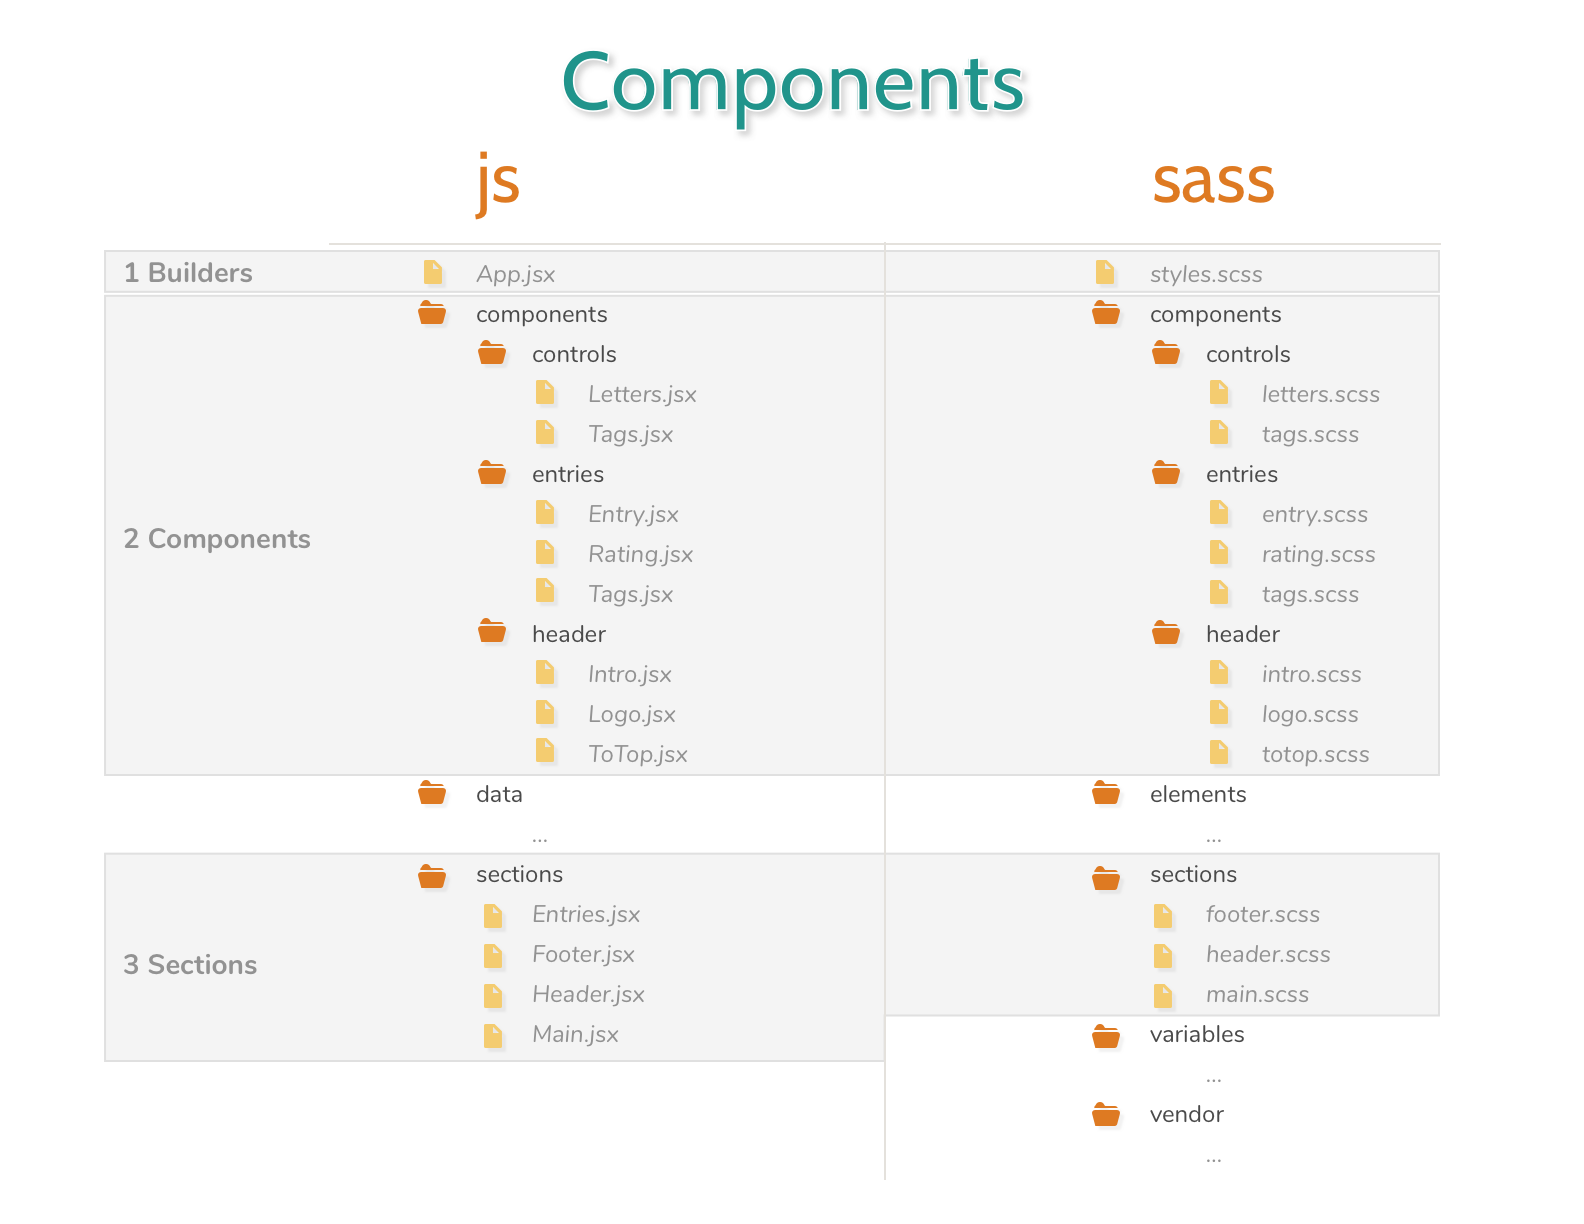
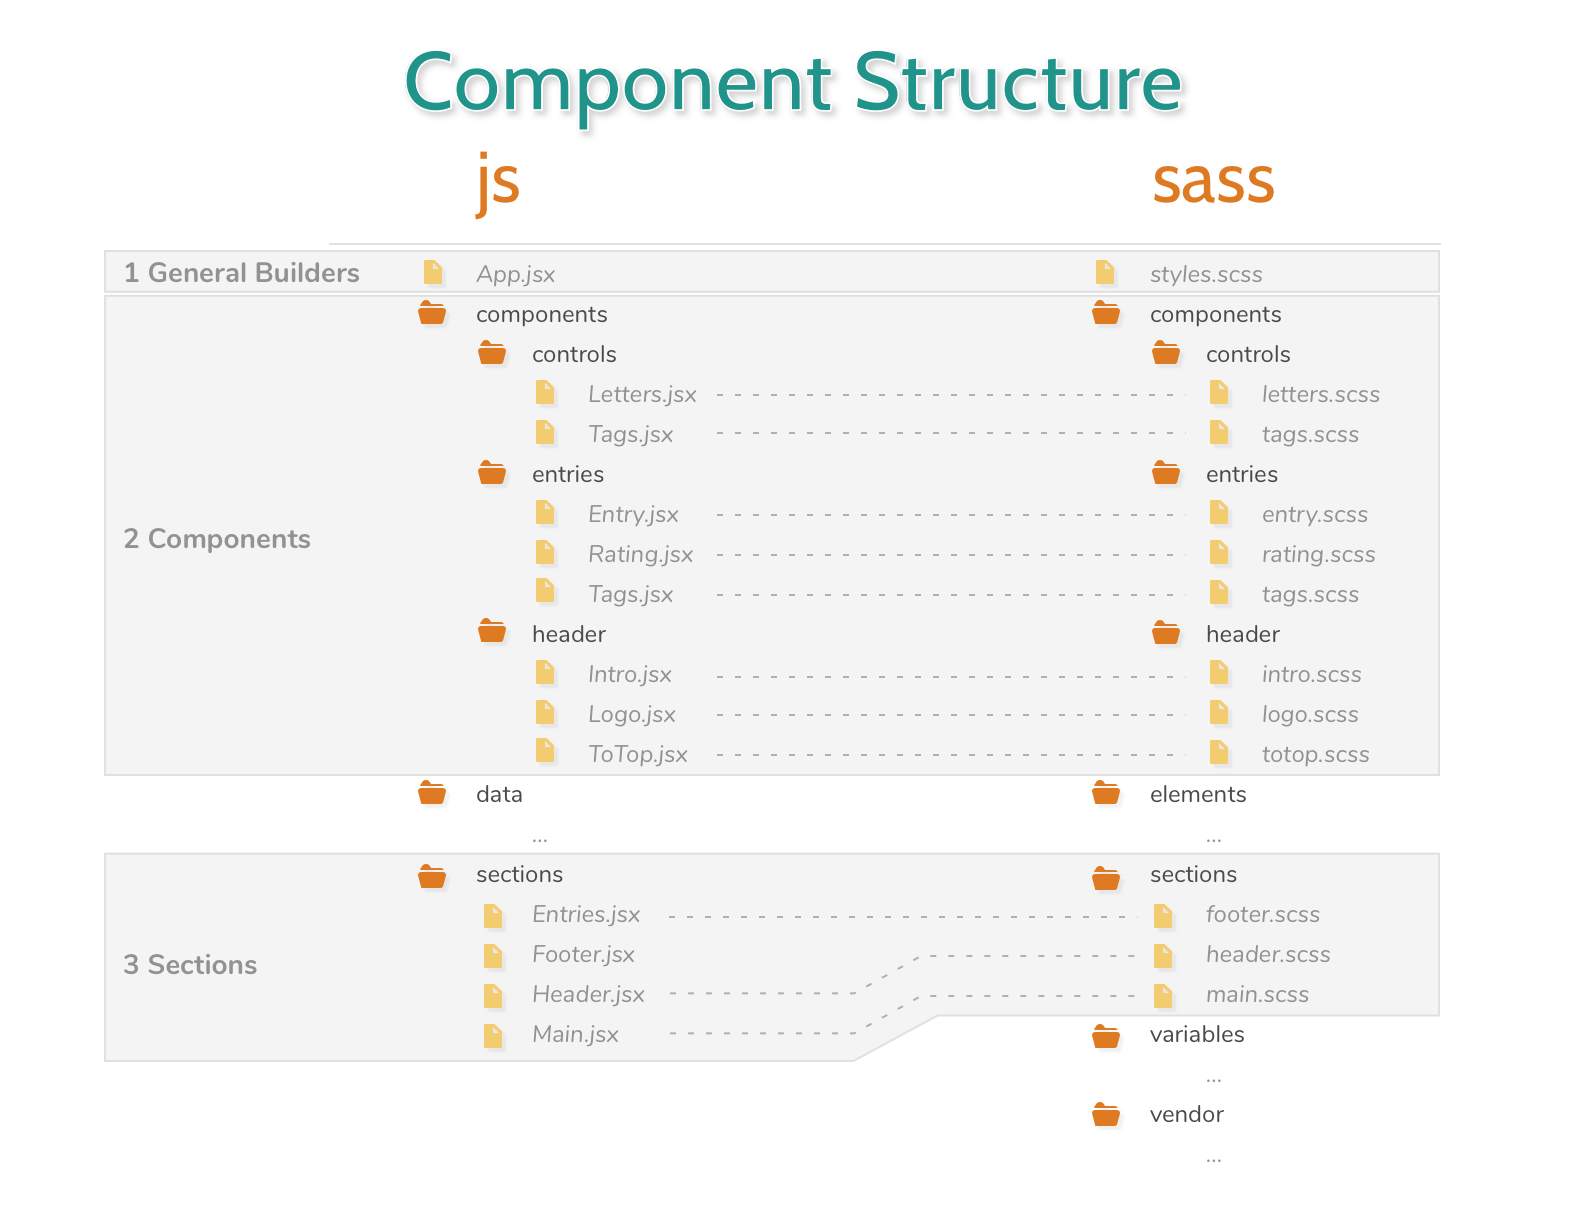
Readme overhaul

Changed region(s): [[0.2475, 0.031, 0.7424, 0.1242], [0.0928, 0.2173, 0.2165, 0.2484]]

diff --git a/README.md b/README.md
@@ -8,8 +8,7 @@
 
 * [Setup](#setup)
   * [Install dependencies](#install-dependencies)
-* [Precompilation](#precompilation)
-  * [Gulp](#gulp)
+* [Development](#development)
   * [JavaScript](#javascript)
   * [Sass](#sass)
 * [Structure](#structure)
@@ -28,38 +27,37 @@ NPM works, but I've moved to Yarn for package dependencies. If you haven't alrea
 
 Then it's as simple as: `yarn install` (package and lockfile already exist)
 
+## Development
 
-## Precompilation
-
-### Gulp
-
-- Local
-- NPM scripts
-- Tasks
+The absolute basic: `yarn start`
 
 ### JavaScript
 
-- React
-- Babel
-- Browserify for the build
+This is a [React](https://facebook.github.io/react/) project, so obviously JS heavy. It has [babel](http://babeljs.io/), notably with `"presets": ["es2015", "react", "stage-2"]`.
+
+The (dev) build itself is using [Webpack](https://webpack.js.org/). The local dev uses a combination of [Browsersync](https://www.browsersync.io/) and webpack dev middlewhare. Since it runs in middlewhere there is no "compilation" to a public folder, it's created in memory. This also has a layer of "hot reloading" so that during dev the whole page doesn't need refreshing, saving a `.jsx` file will just reload affected components.
+
+All of that said, it should **just work**, but the files to pay most attention to in relation, more or less in this order:
+
+- `package.json`
+- `webpack.config.js`
+- `.babelrc`
+- `app.js`
+
 
 #### JS Linting
 
-- `TODO`
-- ES-lint
+[Eslint](http://eslint.org/) is integrated into the dev build (as well as being independently triggered.) The rules are part of the configuration file found at `.eslintrc.json`. However, it's notable just `"extends": ["eslint:recommended", "plugin:react/recommended"]`
+
+If you want to use the linting independent of the build, `yarn run lint` will do a single run.
 
 ### Sass
 
-- Uses `.scss` file format
-- No compass, just sass builder
-- Autoprefixer runs
-- Uncompressed and sourcemaped when ran in dev mode (default)
+Sass is also compiled by webpack in the dev environment. Notably, the `.scss` files (note: don't mix `.sass` files in) are directly included in the corresponding JSX file. See the [Structure](#structure) section below for a visual representation of this relationship.
 
 #### Sass Linting
 
-- Runs on sass compile
-- .sass-lint.yml for rules
-- Sublime Text inline linting
+Similar to JS linting, [Stylelint](https://stylelint.io/) is integrated into webpack, and runs every time the Sass is first compiled or modified. To see the rules (based on [stylelint-config-standard](https://github.com/stylelint/stylelint-config-standard)) can be found at `stylelint.config.js`
 
 ## Structure
 
@@ -67,20 +65,19 @@ Then it's as simple as: `yarn install` (package and lockfile already exist)
 
 ### 1. Builders
 
-- Entry files
+Entry files for general building of application (and genaral sass files). Mostly shouldn't need to interact with this scope unless a large change happens.
 
 ### 2. Components
 
-- Mirrored aspects of the app
+Where all the "features" live. This is where most of the work goes in that changes or additions to the application (or it's mirrored styles) should be broken down into this level.
 
 ### 3. Sections
 
-- Structural organization
+Technically also components, these are isolated into more "mid-level" structural components responsible for sections of the application.
 
 ## Deployment
 
-- `TODO`
-- Environment flag
+`TODO` Currently only dev environment. Will need Environment flags and a deploy process once production is definied and architected.
 
 ## Roadmap
 
